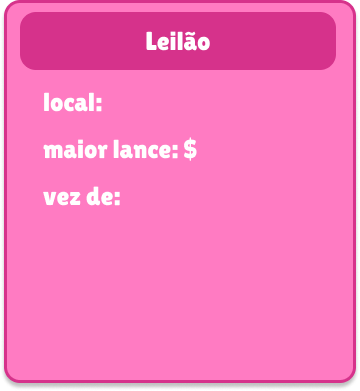
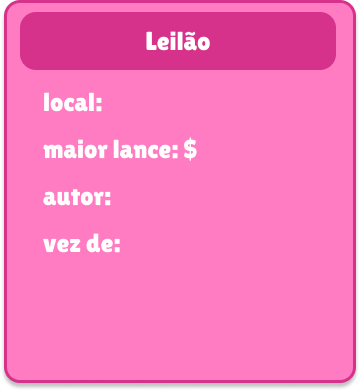
. mudanças de ui leilao

Changed region(s): [[0.1222, 0.5831, 0.3361, 0.6445], [0.1222, 0.4604, 0.3361, 0.5217]]

diff --git a/src/ui/auction_result_modal.py b/src/ui/auction_result_modal.py
@@ -14,13 +14,31 @@ class AuctionResultModal(Modal):
         self.lance = lance
 
         # Fonts
-        self.font = pygame.font.Font(None, 32)
-        self.title_font = pygame.font.Font(None, 42)
-        self.price_font = pygame.font.Font(None, 52)
+        assets_dir = os.path.join(os.path.dirname(__file__), '..', '..', 'assets')
+        fonte = os.path.join(assets_dir, 'fonte')
+        fonte_path = os.path.join(fonte, 'LilitaOne-Regular.ttf')
+
+        self.font = pygame.font.Font(fonte_path, 22)
+        self.title_font = pygame.font.Font(fonte_path, 22)
+        self.price_font = pygame.font.Font(fonte_path, 22)
 
         # Buttons
-        assets_dir = os.path.join(os.path.dirname(__file__), '..', '..', 'assets')
         ok_button_img = pygame.image.load(os.path.join(assets_dir, 'botao-ok.png')).convert_alpha()
+        self.new_auction_image = pygame.image.load(os.path.join(assets_dir, 'leilao_vencedor.png')).convert_alpha()
+        CARD_SCALE = 1  # Escala da carta
+
+        # Redimensiona a carta
+        orig_w, orig_h = self.new_auction_image.get_size()
+        new_w = int(orig_w * CARD_SCALE)
+        new_h = int(orig_h * CARD_SCALE)
+        if new_w <= 0: new_w = 1
+        if new_h <= 0: new_h = 1
+        self.new_auction_image = pygame.transform.smoothscale(self.new_auction_image, (new_w, new_h))
+        
+        # Centraliza na tela
+        screen_w, screen_h = screen.get_size()
+        self.carta_x = (screen_w - new_w) // 2
+        self.carta_y = (screen_h - new_h) // 2
 
         # Title
         title_surf = self.title_font.render("Leilão", True, (255, 255, 255))
@@ -29,7 +47,7 @@ class AuctionResultModal(Modal):
 
         if self.vencedor:
             # Winner text
-            vencedor_text = f"{self.vencedor.nome} venceu o leilão e adquiriu"
+            vencedor_text = f"{self.vencedor.nome}"
             vencedor_surf = self.font.render(vencedor_text, True, (255, 255, 255))
             vencedor_rect = vencedor_surf.get_rect(center=(self.modal_rect.centerx, self.modal_rect.y + 100))
             self.screen.blit(vencedor_surf, vencedor_rect)
@@ -41,7 +59,7 @@ class AuctionResultModal(Modal):
             self.screen.blit(imovel_surf, imovel_rect)
 
             # Price
-            lance_text = f"por $ {self.lance}"
+            lance_text = f"{self.lance}"
             lance_surf = self.price_font.render(lance_text, True, (255, 255, 255))
             lance_rect = lance_surf.get_rect(center=(self.modal_rect.centerx, self.modal_rect.y + 190))
             self.screen.blit(lance_surf, lance_rect)
@@ -80,25 +98,25 @@ class AuctionResultModal(Modal):
             
             # Drawing
             self.screen.blit(background_capture, (0, 0))
-            self.screen.blit(self.modal_image, self.modal_rect)
+            self.screen.blit(self.new_auction_image, (self.carta_x, self.carta_y))
 
             if self.vencedor:
                 # Winner text
-                vencedor_text = f"{self.vencedor.nome} venceu o leilão e adquiriu"
+                vencedor_text = f"{self.vencedor.nome}"
                 vencedor_surf = self.font.render(vencedor_text, True, (255, 255, 255))
-                vencedor_rect = vencedor_surf.get_rect(center=(self.modal_rect.centerx, self.modal_rect.y + 100))
+                vencedor_rect = vencedor_surf.get_rect(center=(self.modal_rect.centerx+50, self.modal_rect.y + 80))
                 self.screen.blit(vencedor_surf, vencedor_rect)
 
                 # Property name
                 imovel_text = f"{self.imovel.nome}"
                 imovel_surf = self.font.render(imovel_text, True, (255, 255, 255))
-                imovel_rect = imovel_surf.get_rect(center=(self.modal_rect.centerx, self.modal_rect.y + 140))
+                imovel_rect = imovel_surf.get_rect(center=(self.modal_rect.centerx+20, self.modal_rect.y + 175))
                 self.screen.blit(imovel_surf, imovel_rect)
 
                 # Price
-                lance_text = f"por $ {self.lance}"
+                lance_text = f"{self.lance}"
                 lance_surf = self.price_font.render(lance_text, True, (255, 255, 255))
-                lance_rect = lance_surf.get_rect(center=(self.modal_rect.centerx, self.modal_rect.y + 190))
+                lance_rect = lance_surf.get_rect(center=(self.modal_rect.centerx, self.modal_rect.y + 128))
                 self.screen.blit(lance_surf, lance_rect)
             else:
                 # No winner text

diff --git a/src/ui/auction_modal.py b/src/ui/auction_modal.py
@@ -22,7 +22,6 @@ class AuctionModal(Modal):
         self.price_font = pygame.font.Font(fonte_path, 22)
 
         # Buttons
-        assets_dir = os.path.join(os.path.dirname(__file__), '..', '..', 'assets')
         lance_button_img = pygame.image.load(os.path.join(assets_dir, 'botao-dar-lance.png')).convert_alpha()
         desistir_button_img = pygame.image.load(os.path.join(assets_dir, 'botao-desistir.png')).convert_alpha()
 
@@ -43,12 +42,12 @@ class AuctionModal(Modal):
         self.carta_y = (screen_h - new_h) // 2
 
         # Input box
-        self.input_rect = pygame.Rect(self.modal_rect.centerx - 100, self.modal_rect.y + 200, 200, 40)
+        self.input_rect = pygame.Rect(self.modal_rect.centerx - 100, self.modal_rect.y + 230, 200, 40)
         self.input_text = ""
         self.input_active = False
 
         # Buttons
-        btn_y = self.modal_rect.y + 250
+        btn_y = self.modal_rect.y + 280
         self.lance_button = Button(self.modal_rect.centerx - lance_button_img.get_width() - 10, btn_y, lance_button_img, self.dar_lance)
         self.desistir_button = Button(self.modal_rect.centerx + 10, btn_y, desistir_button_img, self.desistir)
         
@@ -125,7 +124,7 @@ class AuctionModal(Modal):
             # Highest bid
             maior_lance_text = f"{self.partida.maior_lance}"
             maior_lance_surf = self.font.render(maior_lance_text, True, (255, 255, 255))
-            maior_lance_rect = maior_lance_surf.get_rect(center=(self.modal_rect.centerx+35, self.modal_rect.y + 98))
+            maior_lance_rect = maior_lance_surf.get_rect(center=(self.modal_rect.centerx+40, self.modal_rect.y + 98))
             self.screen.blit(maior_lance_surf, maior_lance_rect)
 
             # Bid author
@@ -139,7 +138,7 @@ class AuctionModal(Modal):
             jogador_atual = self.partida.jogadores_leilao[self.partida.leilao_jogador_atual_idx]
             jogador_text = f"{jogador_atual.nome}"
             jogador_surf = self.font.render(jogador_text, True, (255, 255, 255))
-            jogador_rect = jogador_surf.get_rect(center=(self.modal_rect.centerx+10, self.modal_rect.y + 143))
+            jogador_rect = jogador_surf.get_rect(center=(self.modal_rect.centerx+10, self.modal_rect.y + 190))
             self.screen.blit(jogador_surf, jogador_rect)
 
             # Input box
